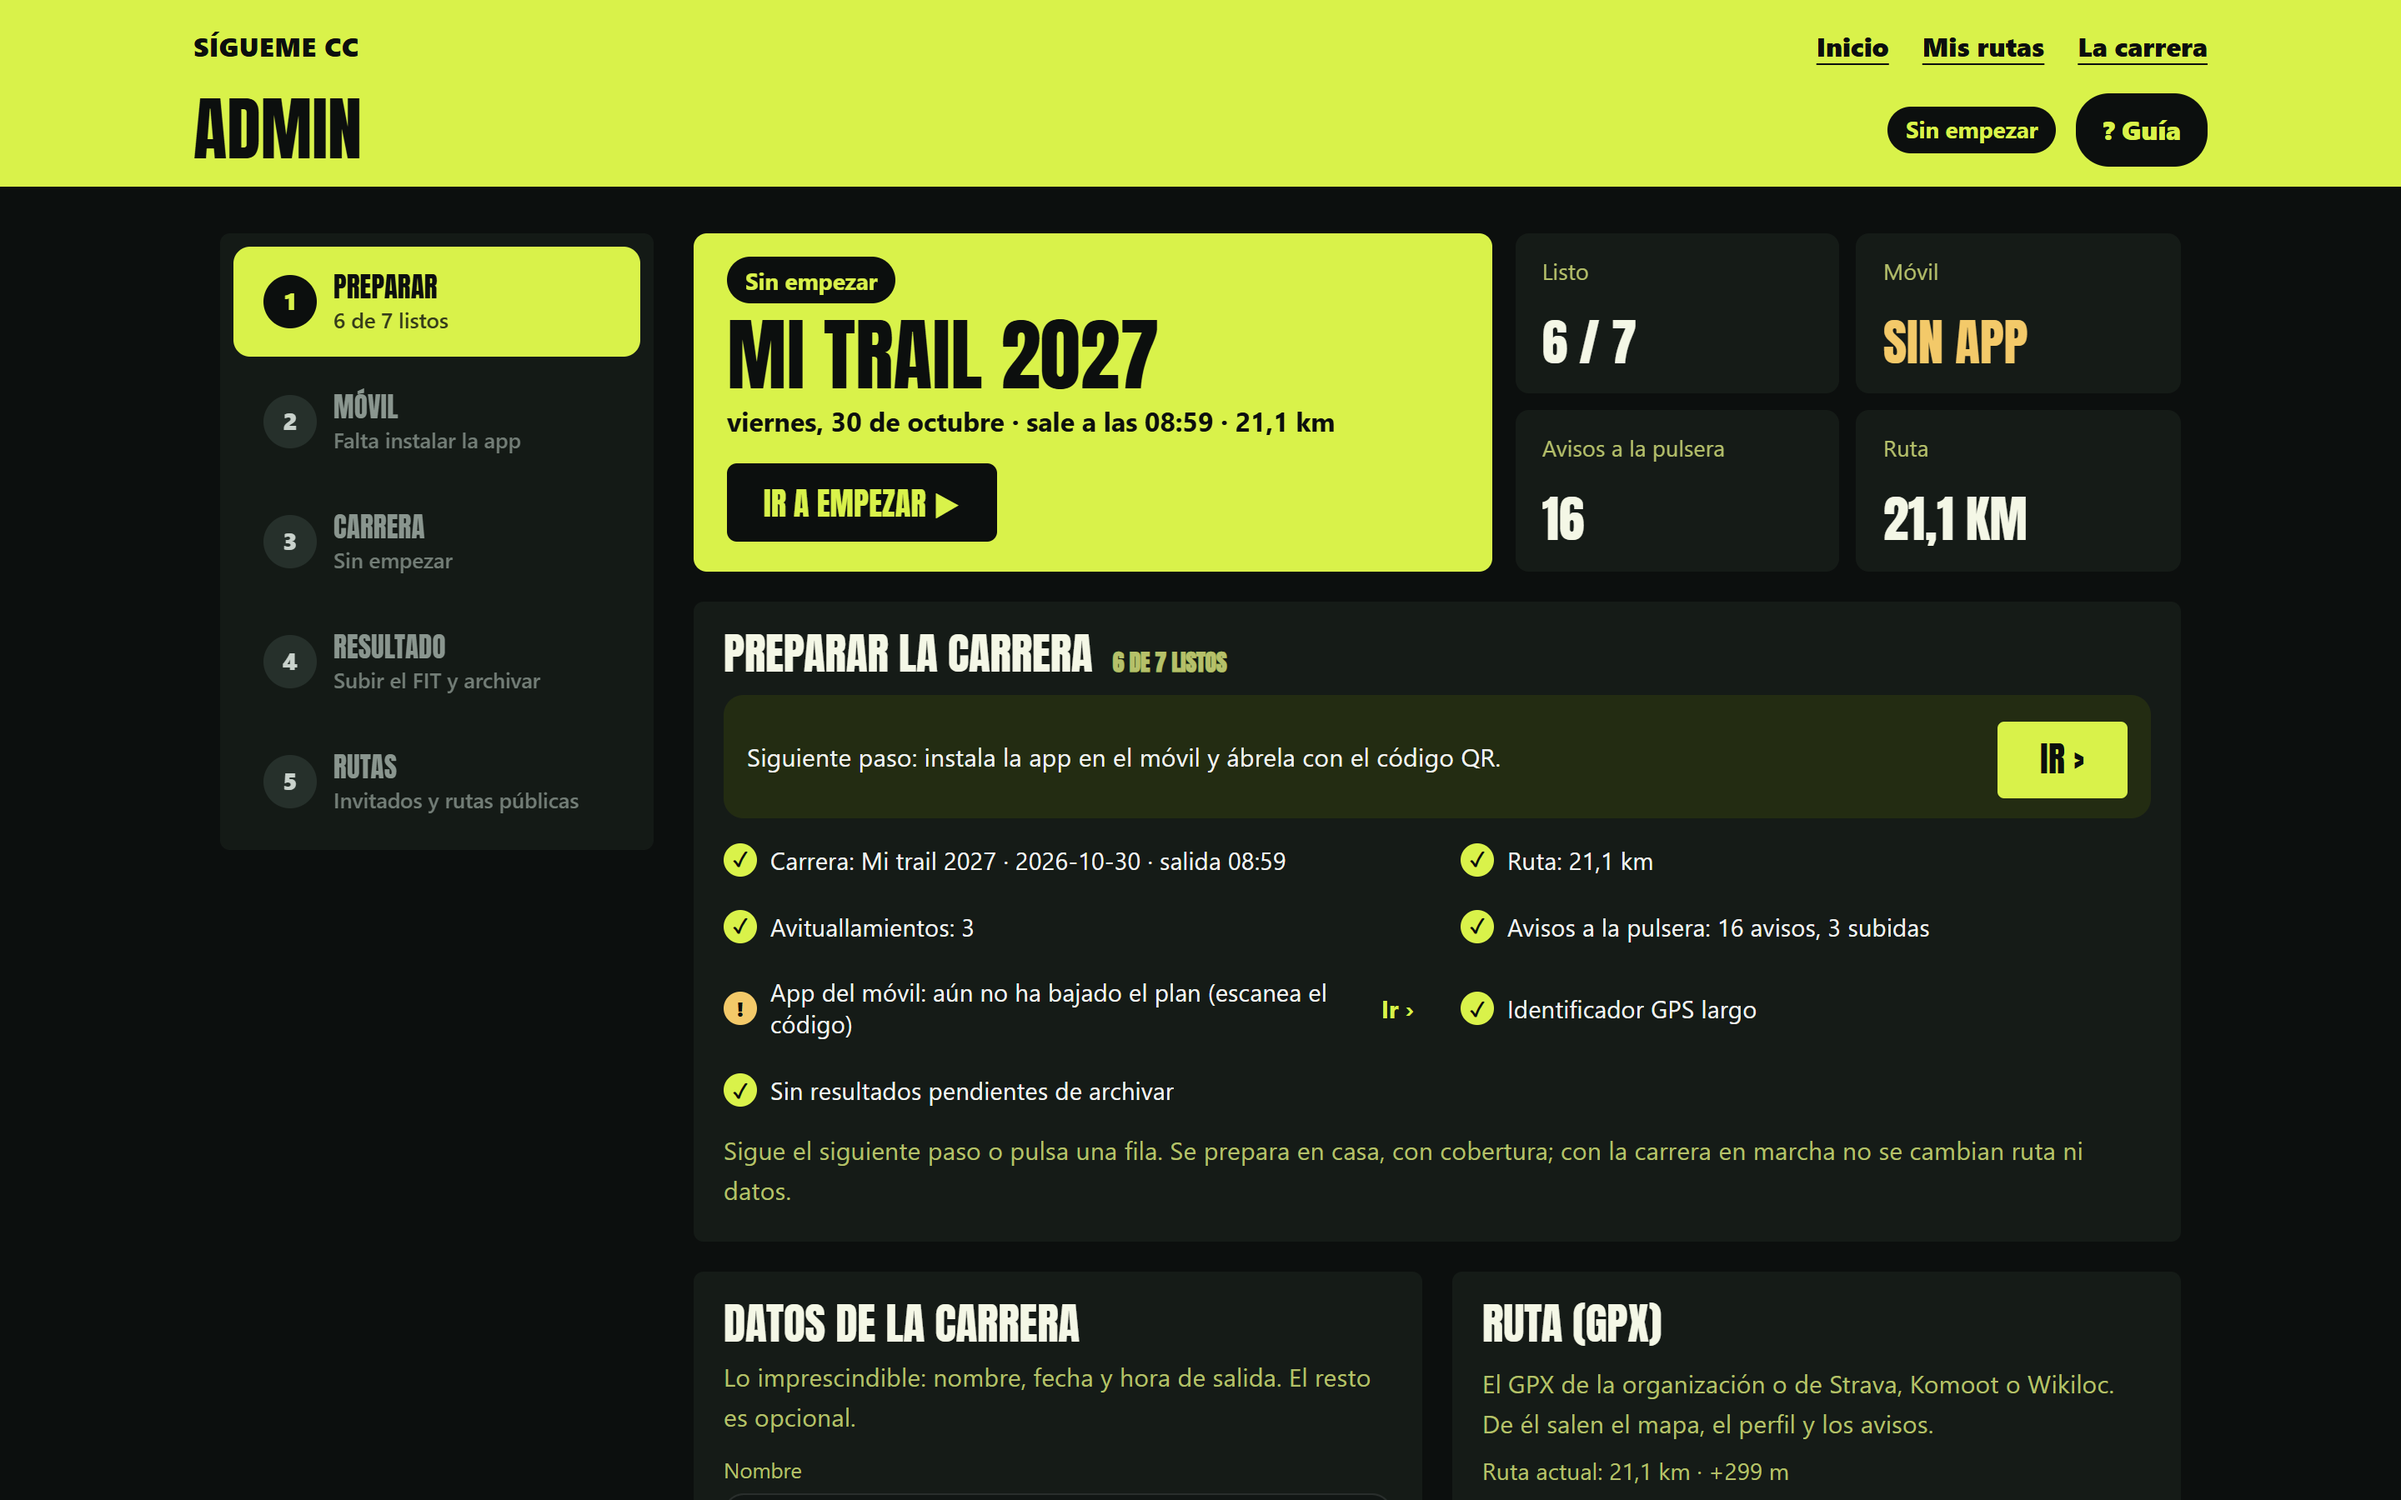
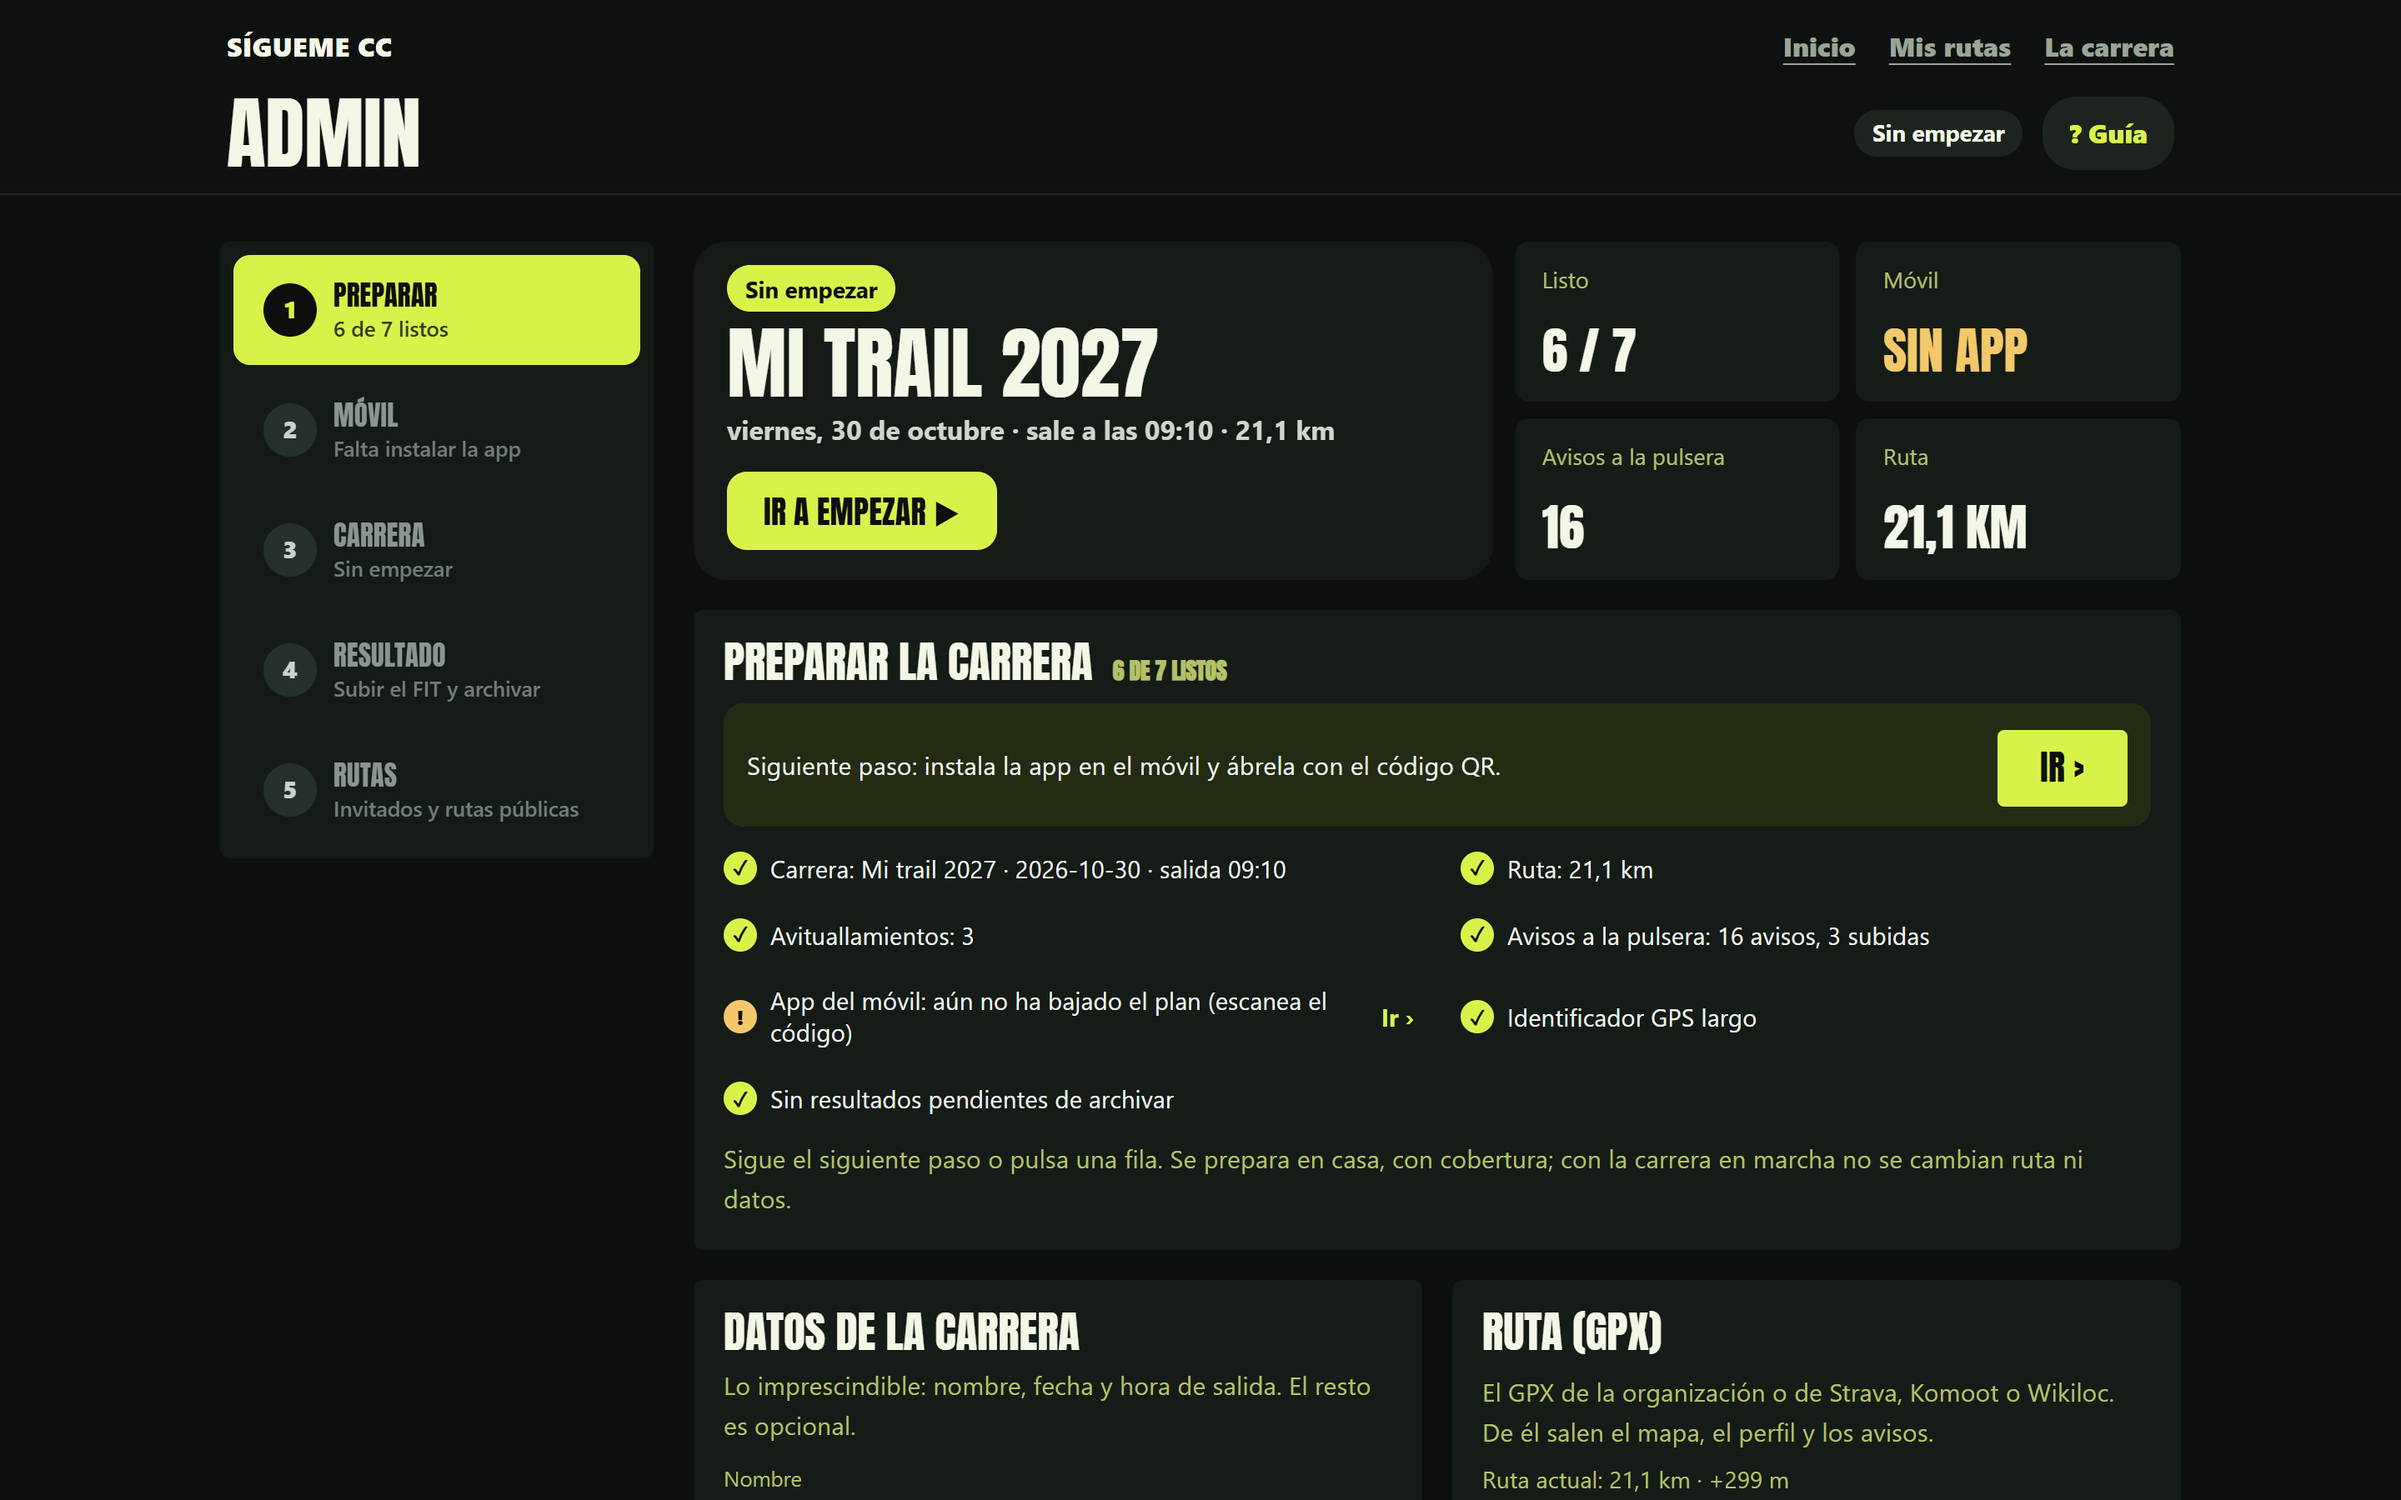
v1.46.0 · «Mis rutas» y el panel con el mismo diseño

diff --git a/cartel-panel.css b/cartel-panel.css
@@ -72,3 +72,33 @@ input[type="file"]::file-selector-button:hover { filter: brightness(0.92); }
 .guia-botones button:focus-visible { outline: 3px solid #5a6320; outline-offset: 2px; }
 @media (min-width: 760px) { #guia-tarjeta { left: auto; right: 24px; bottom: 24px; width: 440px; } #guia-tarjeta.arriba { top: 24px; bottom: auto; } }
 @media (prefers-reduced-motion: reduce) { #guia-foco { transition: none; } }
+
+/* ================= v1.46 · el mismo diseño oscuro que la web pública ================= */
+/* cabecera: oscura, con la misma barra (nombre a la izquierda, enlaces en gris a la derecha) */
+body .campo-cartel { background: #0e1110; color: var(--papel); border-bottom: 1px solid rgba(244, 247, 230, 0.1); }
+body .barra-cartel { padding-left: clamp(16px, 3vw, 36px); padding-right: clamp(16px, 3vw, 36px); }
+body .barra-cartel .marca-cartel { color: var(--papel); }
+body .barra-cartel nav a { color: #9aa596; text-decoration: none; }
+body .barra-cartel nav a:hover { color: var(--papel); }
+body .campo-cartel .topbar { color: var(--papel); padding-left: clamp(16px, 3vw, 36px); padding-right: clamp(16px, 3vw, 36px); }
+body .campo-cartel .topbar h1 { color: var(--papel); font-size: clamp(2.1rem, 5vw, 3rem); }
+body .sub-cab { color: #cfd6cc; font-weight: 500; }
+body .campo-cartel .pill-panel { background: #1d2420; color: var(--papel); border-color: #1d2420; }
+body .campo-cartel .pill-panel.vivo { background: var(--campo); color: var(--tinta); }
+body .btn-guia { background: #1d2420; color: var(--campo); }
+body .btn-guia:hover { background: #27302b; }
+body .campo-cartel :focus-visible { outline-color: var(--campo); }
+/* resumen de la carrera del panel: tarjeta oscura; el lima solo en la etiqueta y el botón */
+body .resumen .r-estado { background: #151a17; color: var(--papel); border-radius: 20px; }
+body .resumen .r-estado h2 { color: var(--papel); }
+body .resumen .r-estado p { color: #cfd6cc; }
+body .resumen .r-estado .pill-panel { background: var(--campo); color: var(--tinta); border-color: var(--campo); }
+body .resumen .r-ir { background: var(--campo); color: var(--tinta); border-radius: 12px; }
+/* chips de marcas iguales que en la web pública */
+body .chips-marcas a { background: #1d2420; color: var(--papel); }
+/* la guía de primera vez: tarjeta oscura con borde lima (antes, blanca) */
+body #guia-tarjeta { background: #151a17; color: var(--papel); box-shadow: 0 0 0 2px var(--campo), 0 18px 50px rgba(0, 0, 0, 0.6); }
+body #guia-tarjeta h2, body #guia-tarjeta h3, body #guia-tarjeta p { color: var(--papel); }
+body #guia-tarjeta .guia-paso, body #guia-tarjeta small { color: var(--campo); }
+body #guia-tarjeta button:not(.guia-sig), body #guia-tarjeta a { color: #cfd6cc; }
+body .guia-sig { background: var(--campo); color: var(--tinta); }

diff --git a/admin.html b/admin.html
@@ -267,7 +267,7 @@
   .inv-nuevo .btn { margin-top: 8px; }
   .inv-codigo { font: 700 1.5rem/1.3 ui-monospace, Menlo, Consolas, monospace; letter-spacing: 0.06em; color: #d9f24a; user-select: all; margin: 8px 0; }
 </style>
-<link rel="stylesheet" href="/cartel-panel.css?v=3">
+<link rel="stylesheet" href="/cartel-panel.css?v=4">
 </head>
 <body>
 <div class="campo-cartel">

diff --git a/mis-rutas.html b/mis-rutas.html
@@ -7,7 +7,7 @@
 <meta name="theme-color" content="#d9f24a">
 <title>Mis rutas</title>
 <link rel="icon" href="/favicon.png?v=4">
-<link rel="stylesheet" href="/cartel-panel.css">
+<link rel="stylesheet" href="/cartel-panel.css?v=4">
 <style>
   * { box-sizing: border-box; }
   html { -webkit-text-size-adjust: 100%; }

diff --git a/CHANGELOG.md b/CHANGELOG.md
@@ -4,6 +4,10 @@ Versiones con [SemVer](https://semver.org/lang/es/): la última cifra para
 arreglos, la del medio para funciones nuevas. Cada una tiene su etiqueta y su
 release en GitHub.
 
+## v1.46.0 · 2026-10-30
+- **«Mis rutas» y el panel con el mismo diseño que la web:** cabecera oscura con la misma barra (adiós a la franja lima), enlaces en gris sin subrayar, el resumen de la carrera del panel en tarjeta oscura con el lima solo en la etiqueta y el botón, chips de marcas iguales y la guía de primera vez en tarjeta oscura con borde lima (antes, blanca).
+- Capturas del repo al día.
+
 ## v1.45.0 · 2026-10-30
 - **Un solo diseño en toda la web:** Carreras, Rutas y relojes, la guía de pulseras y la página de cada ruta dejan el bloque lima gigante y pasan al diseño oscuro de la portada y del directo (títulos, tarjetas, botones y chips iguales en todas).
 - **Un solo menú:** «Inicio · Carreras · Rutas y relojes» arriba en todas las páginas, también en la página de cada carrera (cuenta como «Carreras»). Fuera los menús repetidos: «Inicio» en la cabecera del directo, enlaces del pie, «‹ Volver al inicio» y «‹ INICIO».

diff --git a/README.md b/README.md
@@ -11,7 +11,7 @@
 </p>
 
 <p align="center">
-  <img alt="versión" src="https://img.shields.io/badge/versión-v1.45.0-1f8a4c">
+  <img alt="versión" src="https://img.shields.io/badge/versión-v1.46.0-1f8a4c">
   <img alt="Python" src="https://img.shields.io/badge/servidor-Python%203%20·%20stdlib-3776ab">
   <img alt="MapLibre" src="https://img.shields.io/badge/mapa-MapLibre%204.7-396cb2">
   <img alt="Zepp OS" src="https://img.shields.io/badge/reloj-Zepp%20OS%203-ff6a00">
